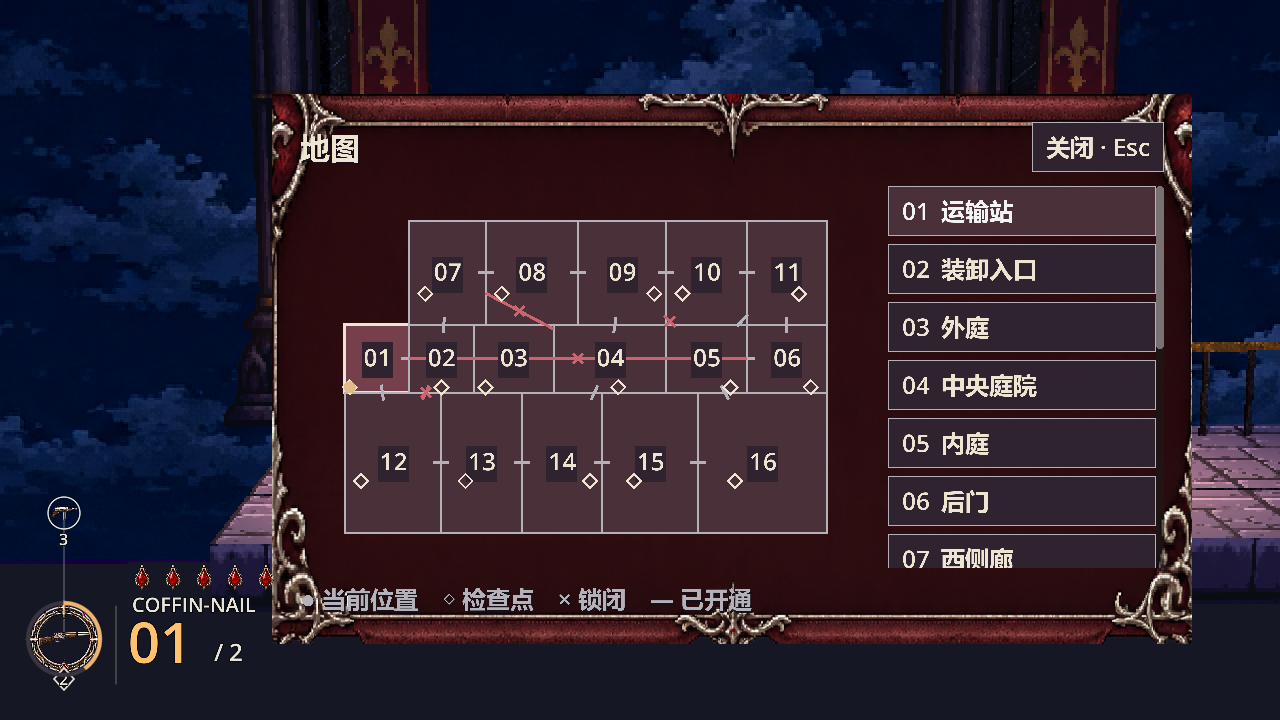
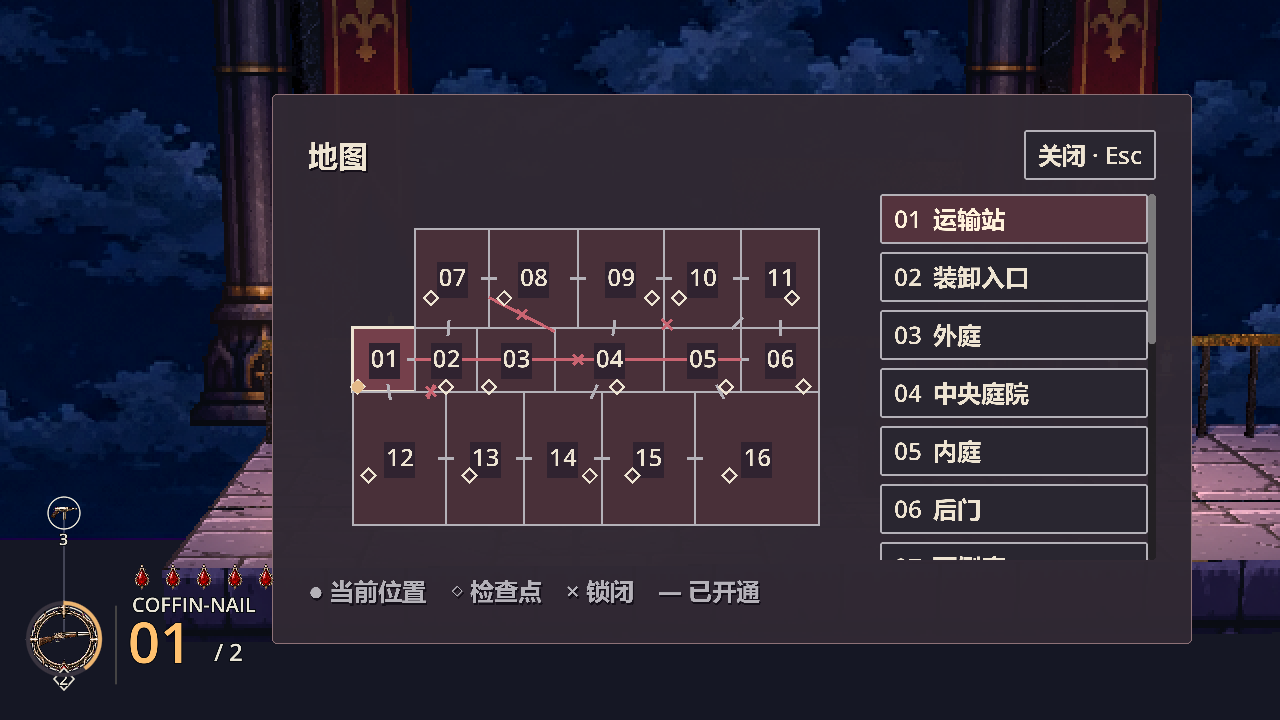
Clean quest UI text surfaces and complete button visual states

diff --git a/dev-design/UI_ACCEPTANCE.md b/dev-design/UI_ACCEPTANCE.md
@@ -30,3 +30,6 @@
 - `ui_acceptance_world_without_ui_1280.png`：隐藏任务 UI 和战斗 HUD 后的世界画面，用于定位下方深色区域。
 
 限制：完整地图与长对话使用显式测试状态，未把它们称为玩家自然探索完 16 个空间的试玩。自动测试证明输入、状态和布局，不代替长时间真人体验。最终复查将枪名从设计字号14放大到20（960窗口为15实际像素），主要弹量保持清晰大字；修改后84项实机检查与16项战斗HUD检查再次通过。画面下方连续深色区域在隐藏全部 UI 后仍存在，采样点颜色完全相同，来源是世界渲染背景。任务素材自身是局部酒红底和旧银边，没有额外黑边或铺底。下方块状深色的观感本轮尚未改善，后续仍需补足镜头可见范围内的场景层次；不能因来源不是 UI 就把整个画面问题视为已解决。
+
+## 用户反馈后的修订
+用户否定了首版观感，因此此前84项功能检查不作为视觉达标依据。已移除正文后方的拉伸花纹和任务整图底板，改用干净的深红灰底与细边；面板安全边距36，按钮补禁用态，焦点边框不覆盖底色。新增4项结构回归，实际主场景88项通过，三个尺寸截图已重拍。EXE重新导出并启动120帧，无脚本错误。美观程度仍需用户实机评价，不宣称自动测试证明美观。

diff --git a/dev-design/ART_AND_UI.md b/dev-design/ART_AND_UI.md
@@ -27,3 +27,6 @@
 美术以旧银、深红、象牙色为主，少量机械细节。先生成完整布局风格稿并在实机上试装，再拆边框、图标、分页、印章。所有文字、弹量和进度由原生 UI 绘制；不把中文烘焙到图内，不用黑色大板盖住世界。
 
 每张生产素材登记用途、源图、提示词、尺寸、透明方式、采样方式、拆分记录、运行引用和最终验收截图。失败候选不混入运行目录。既有素材仅在确认引用与来源用途后移除。
+
+## 2026-09-14 可读性修订
+任务、地图和对白正文使用无花纹平底；禁止整张图集作为九宫格底板拉伸。文字距离面板外边至少36设计像素；装饰只能位于正文安全区之外。按钮必须具备正常、悬停、按下、焦点、禁用状态，焦点仅画边线。功能检查通过不代表审美验收通过。
